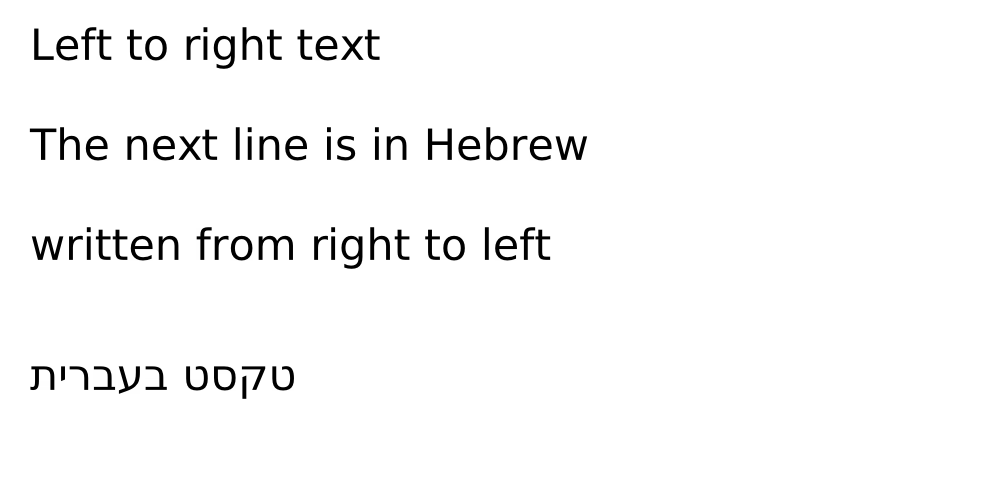
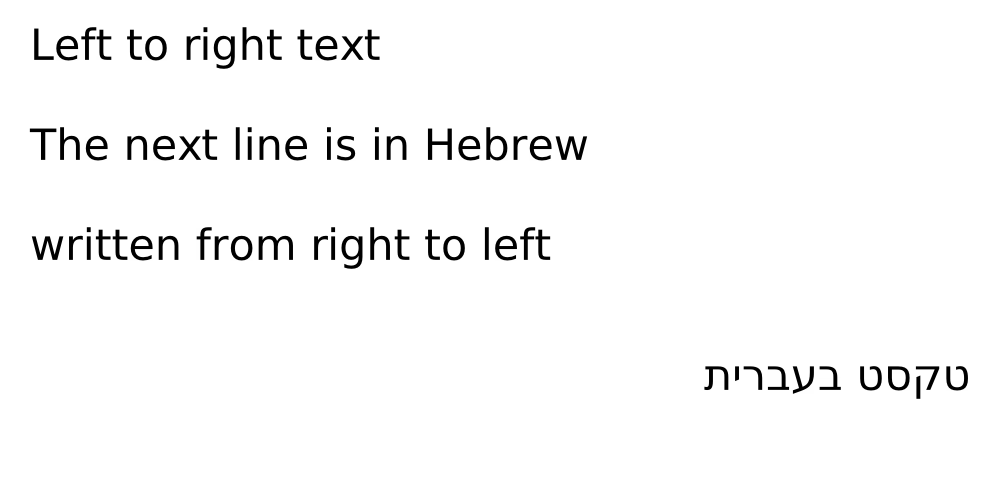
make the rtl text automatically right-aligned

Changed region(s): [[0.682, 0.72, 0.992, 0.81], [0.031, 0.72, 0.31, 0.81]]

diff --git a/src/lib.rs b/src/lib.rs
@@ -131,18 +131,26 @@ fn add_text_lines(
     font: FontRef,
 ) {
     for line in &banner.lines {
-        let text = if line.rtl {
-            line.text.reverse()
+        let scale = PxScale::from(line.size as f32);
+        let (text_width, _text_height) = text_size(scale, &font, &line.text);
+
+        let (text, x, y) = if line.rtl {
+            if line.x < text_width {
+                eprintln!("In rtl=true line '{:?}', the text is right-aligned and thus x should be the right coordinat. (x: {} < text width: {})", line.text.reverse(), line.x, text_width);
+                std::process::exit(1);
+            }
+
+            (line.text.reverse(), line.x - text_width, line.y)
         } else {
-            line.text.clone()
+            (line.text.clone(), line.x, line.y)
         };
 
         draw_text_mut(
             image,
             get_color(&line.color),
-            line.x as i32,
-            line.y as i32,
-            PxScale::from(line.size as f32),
+            x as i32,
+            y as i32,
+            scale,
             &font,
             &text,
         );

diff --git a/CHANGES.md b/CHANGES.md
@@ -1,5 +1,5 @@
 
-    - rtl (right to left) support
+    - rtl (right to left) support automatically right-aligned
 
 # v0.2.4
     - resize embedded images
